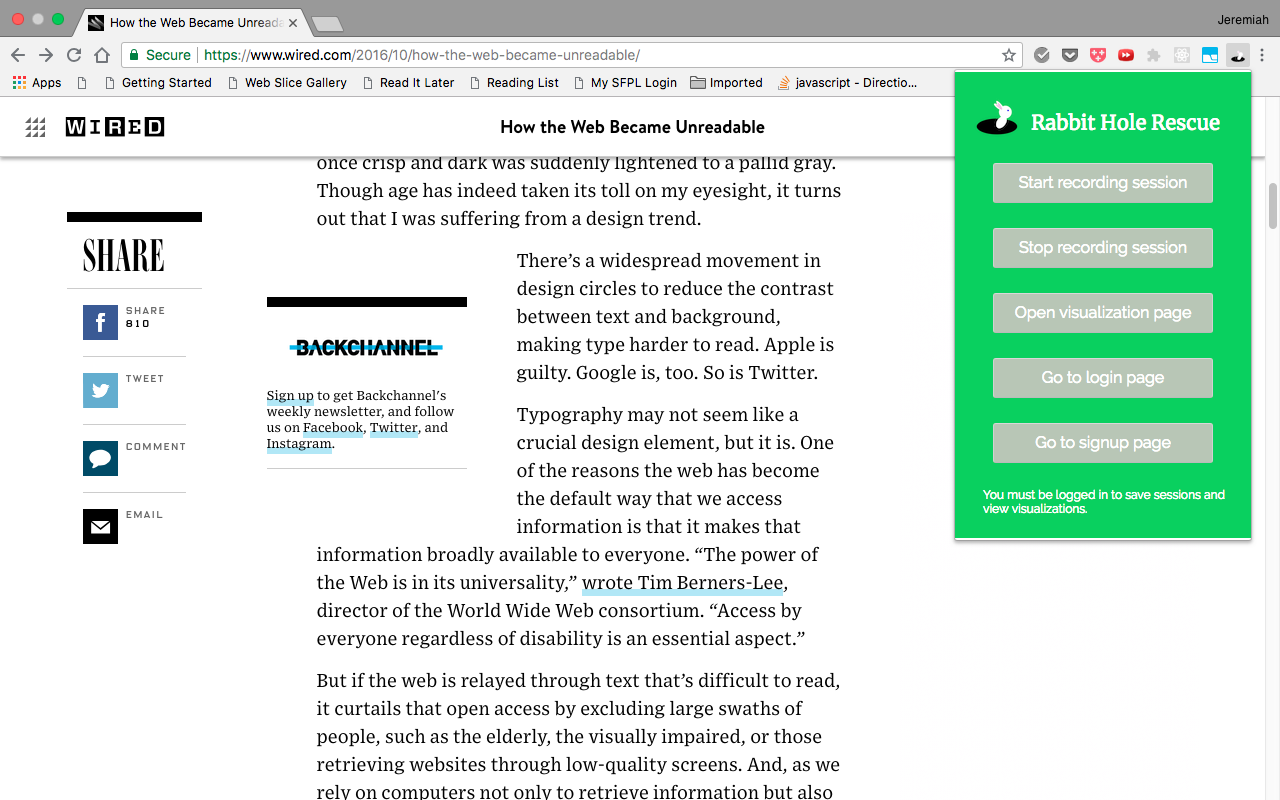
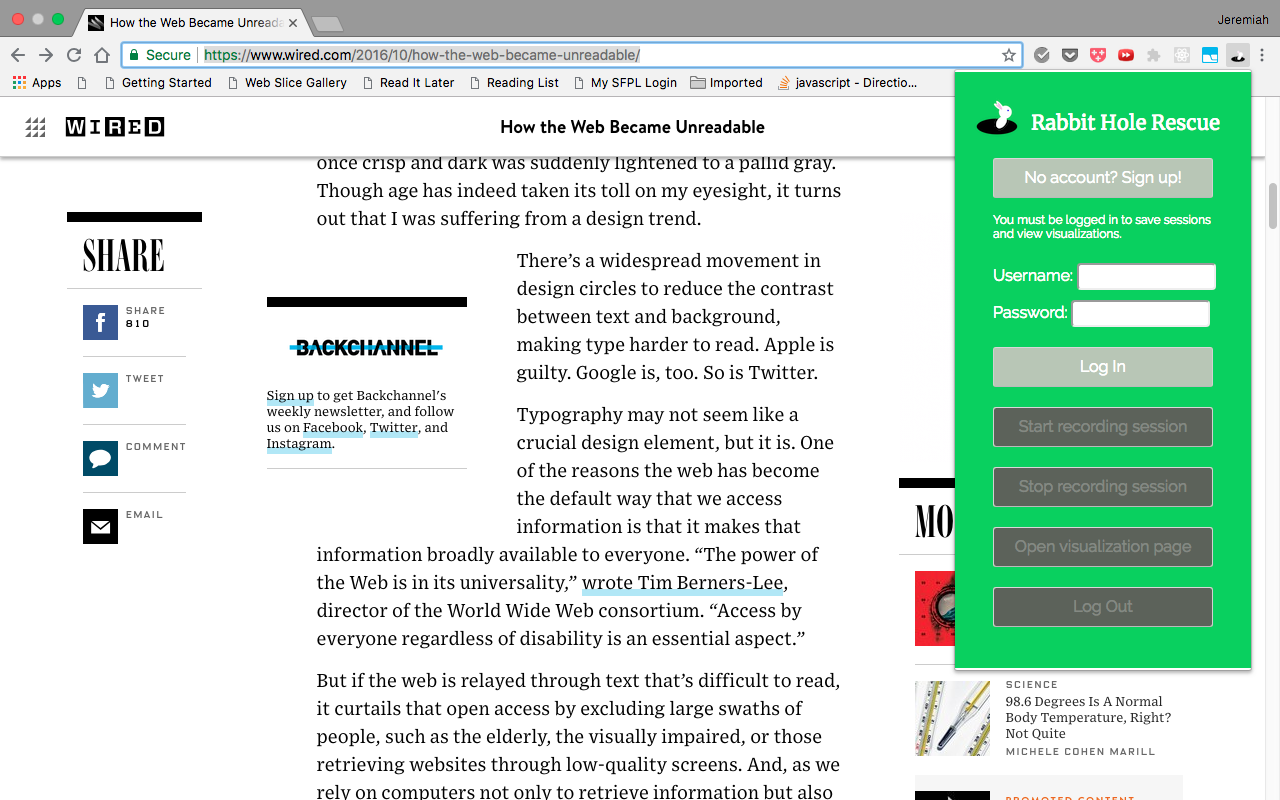
Change a screenshot in readme

Changed region(s): [[0.6875, 0.1875, 1.0, 1.0], [0.0938, 0.0312, 0.8125, 0.0938], [0.9688, 0.0, 1.0, 0.0312]]

diff --git a/README.md b/README.md
@@ -49,6 +49,9 @@ The Chrome extension, once installed, is activated by clicking on its icon in th
 
 ![A web page with the popup superimposed](https://github.com/Kyle01/rabbit_hole_rescue/blob/master/screenshots/popup_screenshot.png)
 
+Before the user logs in, most of the popup's buttons are disabled. 
+
+
 #### Background script 
 
 The extension's background.js script contains the code that does the tracking. The extension, on loading, installs a listener for the start and stop butttons. When the start button in the popup is clicked, listeners are added to Chrome's onUpdated and onActivated actions, and all open tabs are logged in a visit structure.
